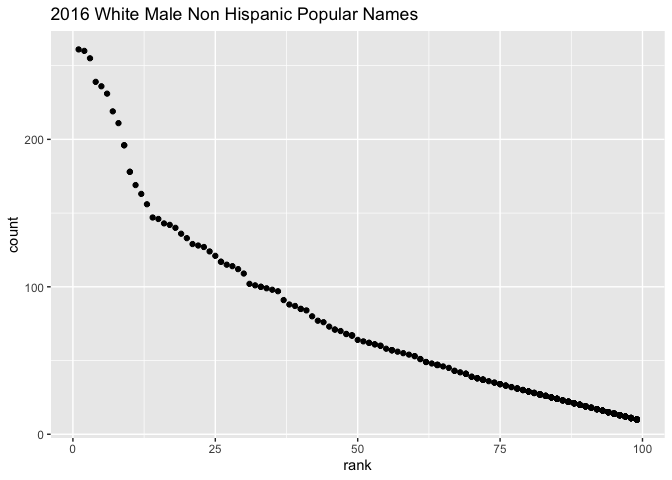
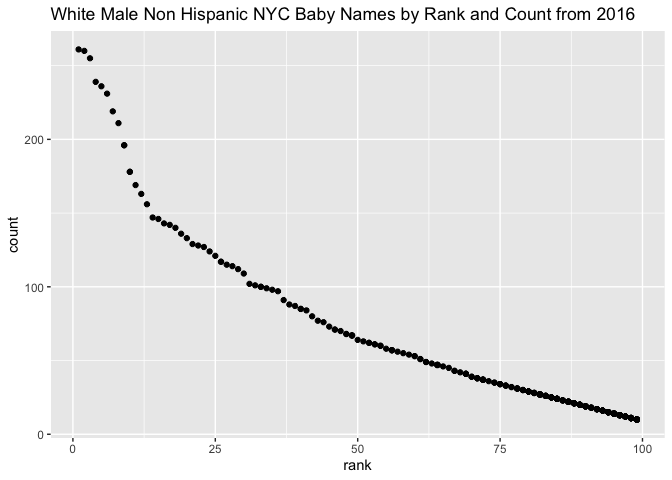
Updating tables in problem 3

Changed region(s): [[0.0625, 0.0, 0.9375, 0.0625]]

diff --git a/p8105_hw2_zv2138.md b/p8105_hw2_zv2138.md
@@ -80,7 +80,7 @@ pols_month = read_csv("./pols-month.csv", show_col_types = F) %>%
   separate(mon, into = c("year","month", "day"), sep = "-") %>% 
   mutate(year = as.integer(year)) %>% 
   mutate(month = as.integer(month)) %>% 
-  mutate(month = str_to_lower(month.name[month])) %>% 
+  mutate(month = (month.name[month])) %>% 
   mutate(prez_dem = ifelse(prez_dem == 1, "dem", "")) %>% 
   mutate(prez_gop = ifelse(prez_gop == 1, "gop", "")) %>% 
   mutate(president = paste(prez_gop,prez_dem)) %>% 
@@ -98,7 +98,7 @@ snp = read_csv("./snp.csv", show_col_types = F) %>%
   mutate(year = as.integer(year)) %>% 
   mutate(year = (ifelse(year <= 15, year + 2000, year + 1900))) %>% 
   mutate(month = as.integer(month)) %>%
-  mutate(month = str_to_lower(month.name[month])) %>% 
+  mutate(month = (month.name[month])) %>% 
   subset(select = -(day)) %>% 
   relocate(year, month)
 ```
@@ -114,14 +114,14 @@ unemployment = read_csv("./unemployment.csv", show_col_types = F) %>%
     values_to = "percent_unemployed"
   ) %>% 
   mutate(month = match(month, tolower(month.abb))) %>% 
-  mutate(month = str_to_lower(month.name[month]))
+  mutate(month = (month.name[month]))
 ```
 
 ## Merge unemployment, snp, and pols\_month
 
 ``` r
-joined_df = left_join(pols_month, snp, by = c("year", "month"))
-joined_df = left_join(joined_df, unemployment, by = c("year", "month"))   
+joined_df = left_join(pols_month, snp, by = c("year", "month")) %>% 
+            left_join(unemployment, by = c("year", "month"))   
 ```
 
 Pols\_month data file contains data on the number of national
@@ -139,7 +139,9 @@ entries. Data was collected from 1948 to 2015.
 
 The three data files were merged together to create the data set
 joined\_df. This file contains 822 observations. Data was collected from
-1947 to 2015.
+1947 to 2015. Some key variables in this new data file include
+percent\_unemployed and president - which indicates if a president was a
+democrat or republican for a given year.
 
 # Problem 3
 
@@ -148,56 +150,56 @@ joined\_df. This file contains 822 observations. Data was collected from
 ``` r
 baby_names = read_csv("./Popular_Baby_Names.csv", show_col_types = F) %>% 
   janitor::clean_names() %>% 
-  unique() %>% 
   mutate(ethnicity = str_replace_all(ethnicity,"ASIAN AND PACI$", "ASIAN AND PACIFIC ISLANDER")) %>% 
   mutate(ethnicity = str_replace_all(ethnicity,"BLACK NON HISP$", "BLACK NON HISPANIC")) %>% 
-  mutate(ethnicity = str_replace_all(ethnicity,"WHITE NON HISP$", "WHITE NON HISPANIC"))
-  # did you make all names and ehtnicty lower case
+  mutate(ethnicity = str_replace_all(ethnicity,"WHITE NON HISP$", "WHITE NON HISPANIC")) %>% 
+  mutate(childs_first_name = str_to_lower(childs_first_name)) %>% 
+  unique() 
 ```
 
 ## Creating Olivia Table
 
 ``` r
-olivia = filter(baby_names, childs_first_name == "Olivia", gender == "FEMALE")
-olivia = subset(olivia, select = c(ethnicity, year_of_birth, rank))
-olivia = pivot_wider(olivia, ethnicity, names_from = "year_of_birth", values_from = "rank")
-knitr::kable(olivia)
+olivia = filter(baby_names, childs_first_name == "olivia" ) %>% 
+         select(c(ethnicity, year_of_birth, rank)) %>% 
+         arrange(year_of_birth) %>% 
+         pivot_wider(ethnicity, names_from = "year_of_birth", values_from = "rank")
+knitr::kable(olivia, caption = "Popularity of Olivia for NYC Baby Names")
 ```
 
-| ethnicity                  | 2016 | 2015 | 2014 | 2013 |
-|:---------------------------|-----:|-----:|-----:|-----:|
-| ASIAN AND PACIFIC ISLANDER |    1 |    1 |    1 |    3 |
-| BLACK NON HISPANIC         |    8 |    4 |    8 |    6 |
-| HISPANIC                   |   13 |   16 |   16 |   22 |
-| WHITE NON HISPANIC         |    1 |    1 |    1 |    1 |
+| ethnicity                  | 2011 | 2012 | 2013 | 2014 | 2015 | 2016 |
+|:---------------------------|-----:|-----:|-----:|-----:|-----:|-----:|
+| ASIAN AND PACIFIC ISLANDER |    4 |    3 |    3 |    1 |    1 |    1 |
+| BLACK NON HISPANIC         |   10 |    8 |    6 |    8 |    4 |    8 |
+| HISPANIC                   |   18 |   22 |   22 |   16 |   16 |   13 |
+| WHITE NON HISPANIC         |    2 |    4 |    1 |    1 |    1 |    1 |
+
+Popularity of Olivia for NYC Baby Names
 
 ## Creating Plot of Popular Male Names
 
 ``` r
-male_names = filter(baby_names, rank == 1, gender == "MALE")
-male_names = subset(male_names, select = c(ethnicity, year_of_birth, childs_first_name))
-male_names = pivot_wider(male_names, ethnicity, names_from = "year_of_birth", values_from = "childs_first_name")
-knitr::kable(male_names)
+male_names = filter(baby_names, rank == 1, gender == "MALE") %>% 
+             arrange(year_of_birth) %>% 
+             select(c(ethnicity, year_of_birth, childs_first_name)) %>% 
+             pivot_wider(ethnicity, names_from = "year_of_birth", values_from = "childs_first_name")
+knitr::kable(male_names, caption = "Most popular Male Baby Names in NYC over the Years")
 ```
 
-| ethnicity                  | 2016   | 2015   | 2014   | 2013   | 2012   | 2011    |
-|:---------------------------|:-------|:-------|:-------|:-------|:-------|:--------|
-| ASIAN AND PACIFIC ISLANDER | Ethan  | Jayden | Jayden | Jayden | RYAN   | ETHAN   |
-| BLACK NON HISPANIC         | Noah   | Noah   | Ethan  | Ethan  | JAYDEN | JAYDEN  |
-| HISPANIC                   | Liam   | Liam   | Liam   | Jayden | JAYDEN | JAYDEN  |
-| WHITE NON HISPANIC         | Joseph | David  | Joseph | David  | JOSEPH | MICHAEL |
+| ethnicity                  | 2011    | 2012   | 2013   | 2014   | 2015   | 2016   |
+|:---------------------------|:--------|:-------|:-------|:-------|:-------|:-------|
+| ASIAN AND PACIFIC ISLANDER | ethan   | ryan   | jayden | jayden | jayden | ethan  |
+| BLACK NON HISPANIC         | jayden  | jayden | ethan  | ethan  | noah   | noah   |
+| HISPANIC                   | jayden  | jayden | jayden | liam   | liam   | liam   |
+| WHITE NON HISPANIC         | michael | joseph | david  | joseph | david  | joseph |
+
+Most popular Male Baby Names in NYC over the Years
 
 ## Creating Plot
 
 ``` r
-male_wnh_2016_plot = ggplot(filter(baby_names, gender == "MALE", ethnicity == "WHITE NON HISPANIC", year_of_birth == 2016),
-       aes(x = rank, y = count )) + geom_point() + ggtitle("2016 White Male Non Hispanic Popular Names")
-
-male_wnh_2016_plot
+ggplot(filter(baby_names, gender == "MALE", ethnicity == "WHITE NON HISPANIC", year_of_birth == 2016),
+       aes(x = rank, y = count )) + geom_point() + ggtitle("White Male Non Hispanic NYC Baby Names by Rank and Count from 2016")
 ```
 
 ![](p8105_hw2_zv2138_files/figure-gfm/unnamed-chunk-11-1.png)<!-- -->
-
-``` r
-#ggsave(Nmaes_plot.pdf, male_wnh_2016_plot, width = 8, height = 5)
-```
